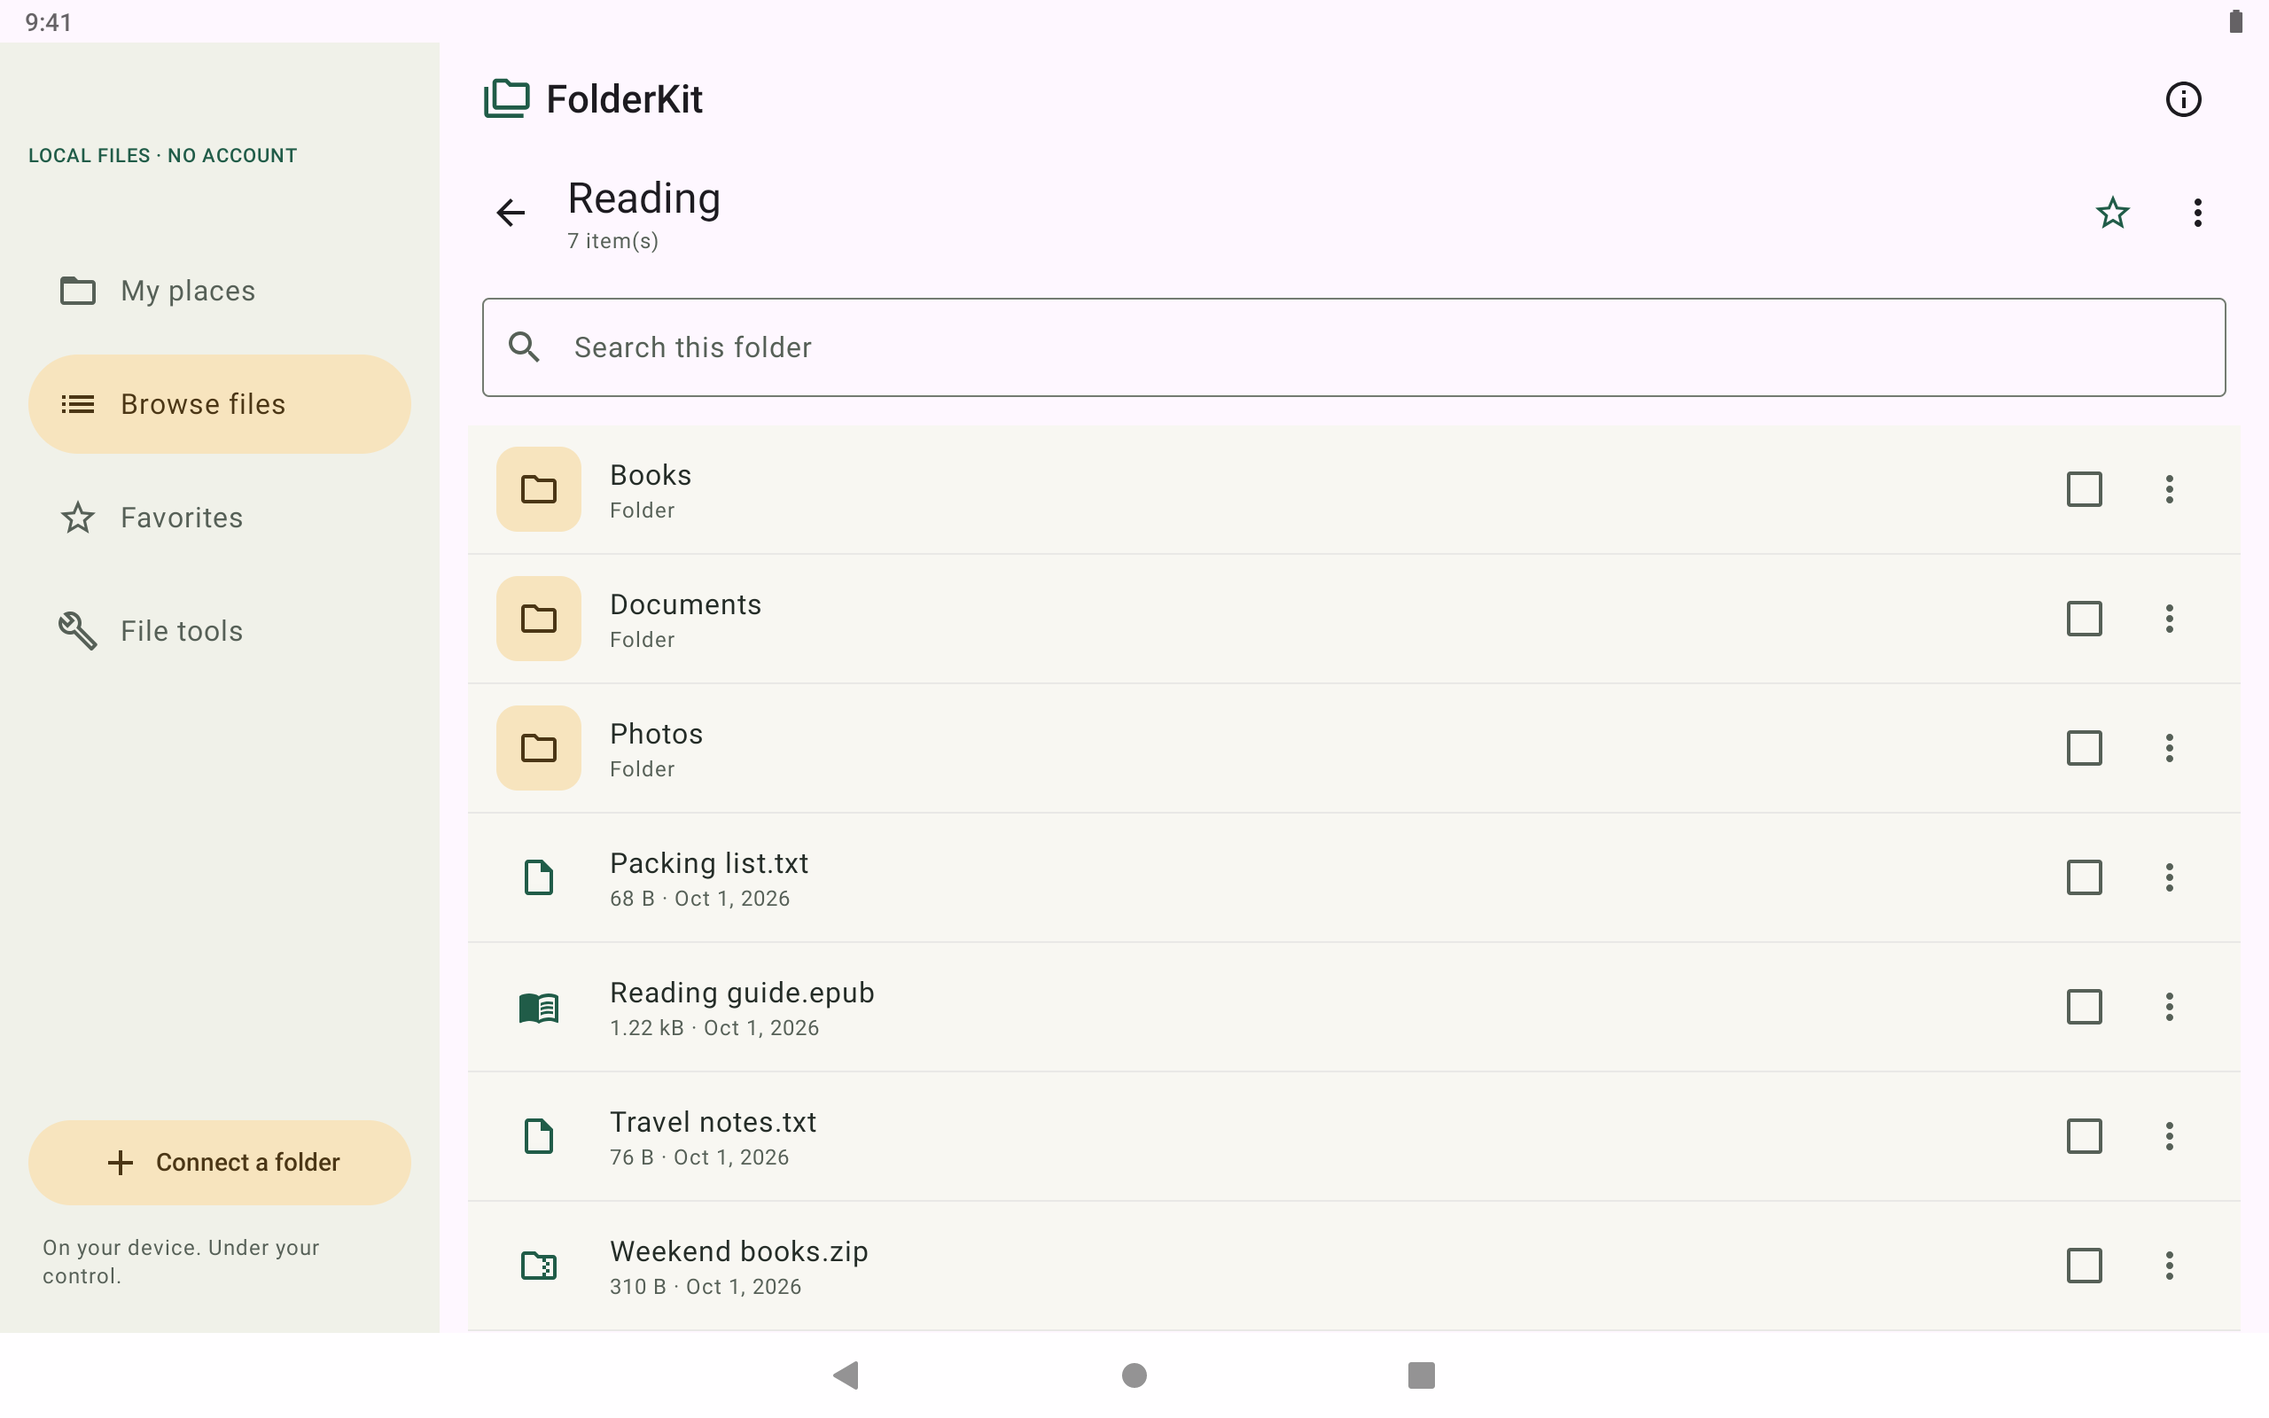
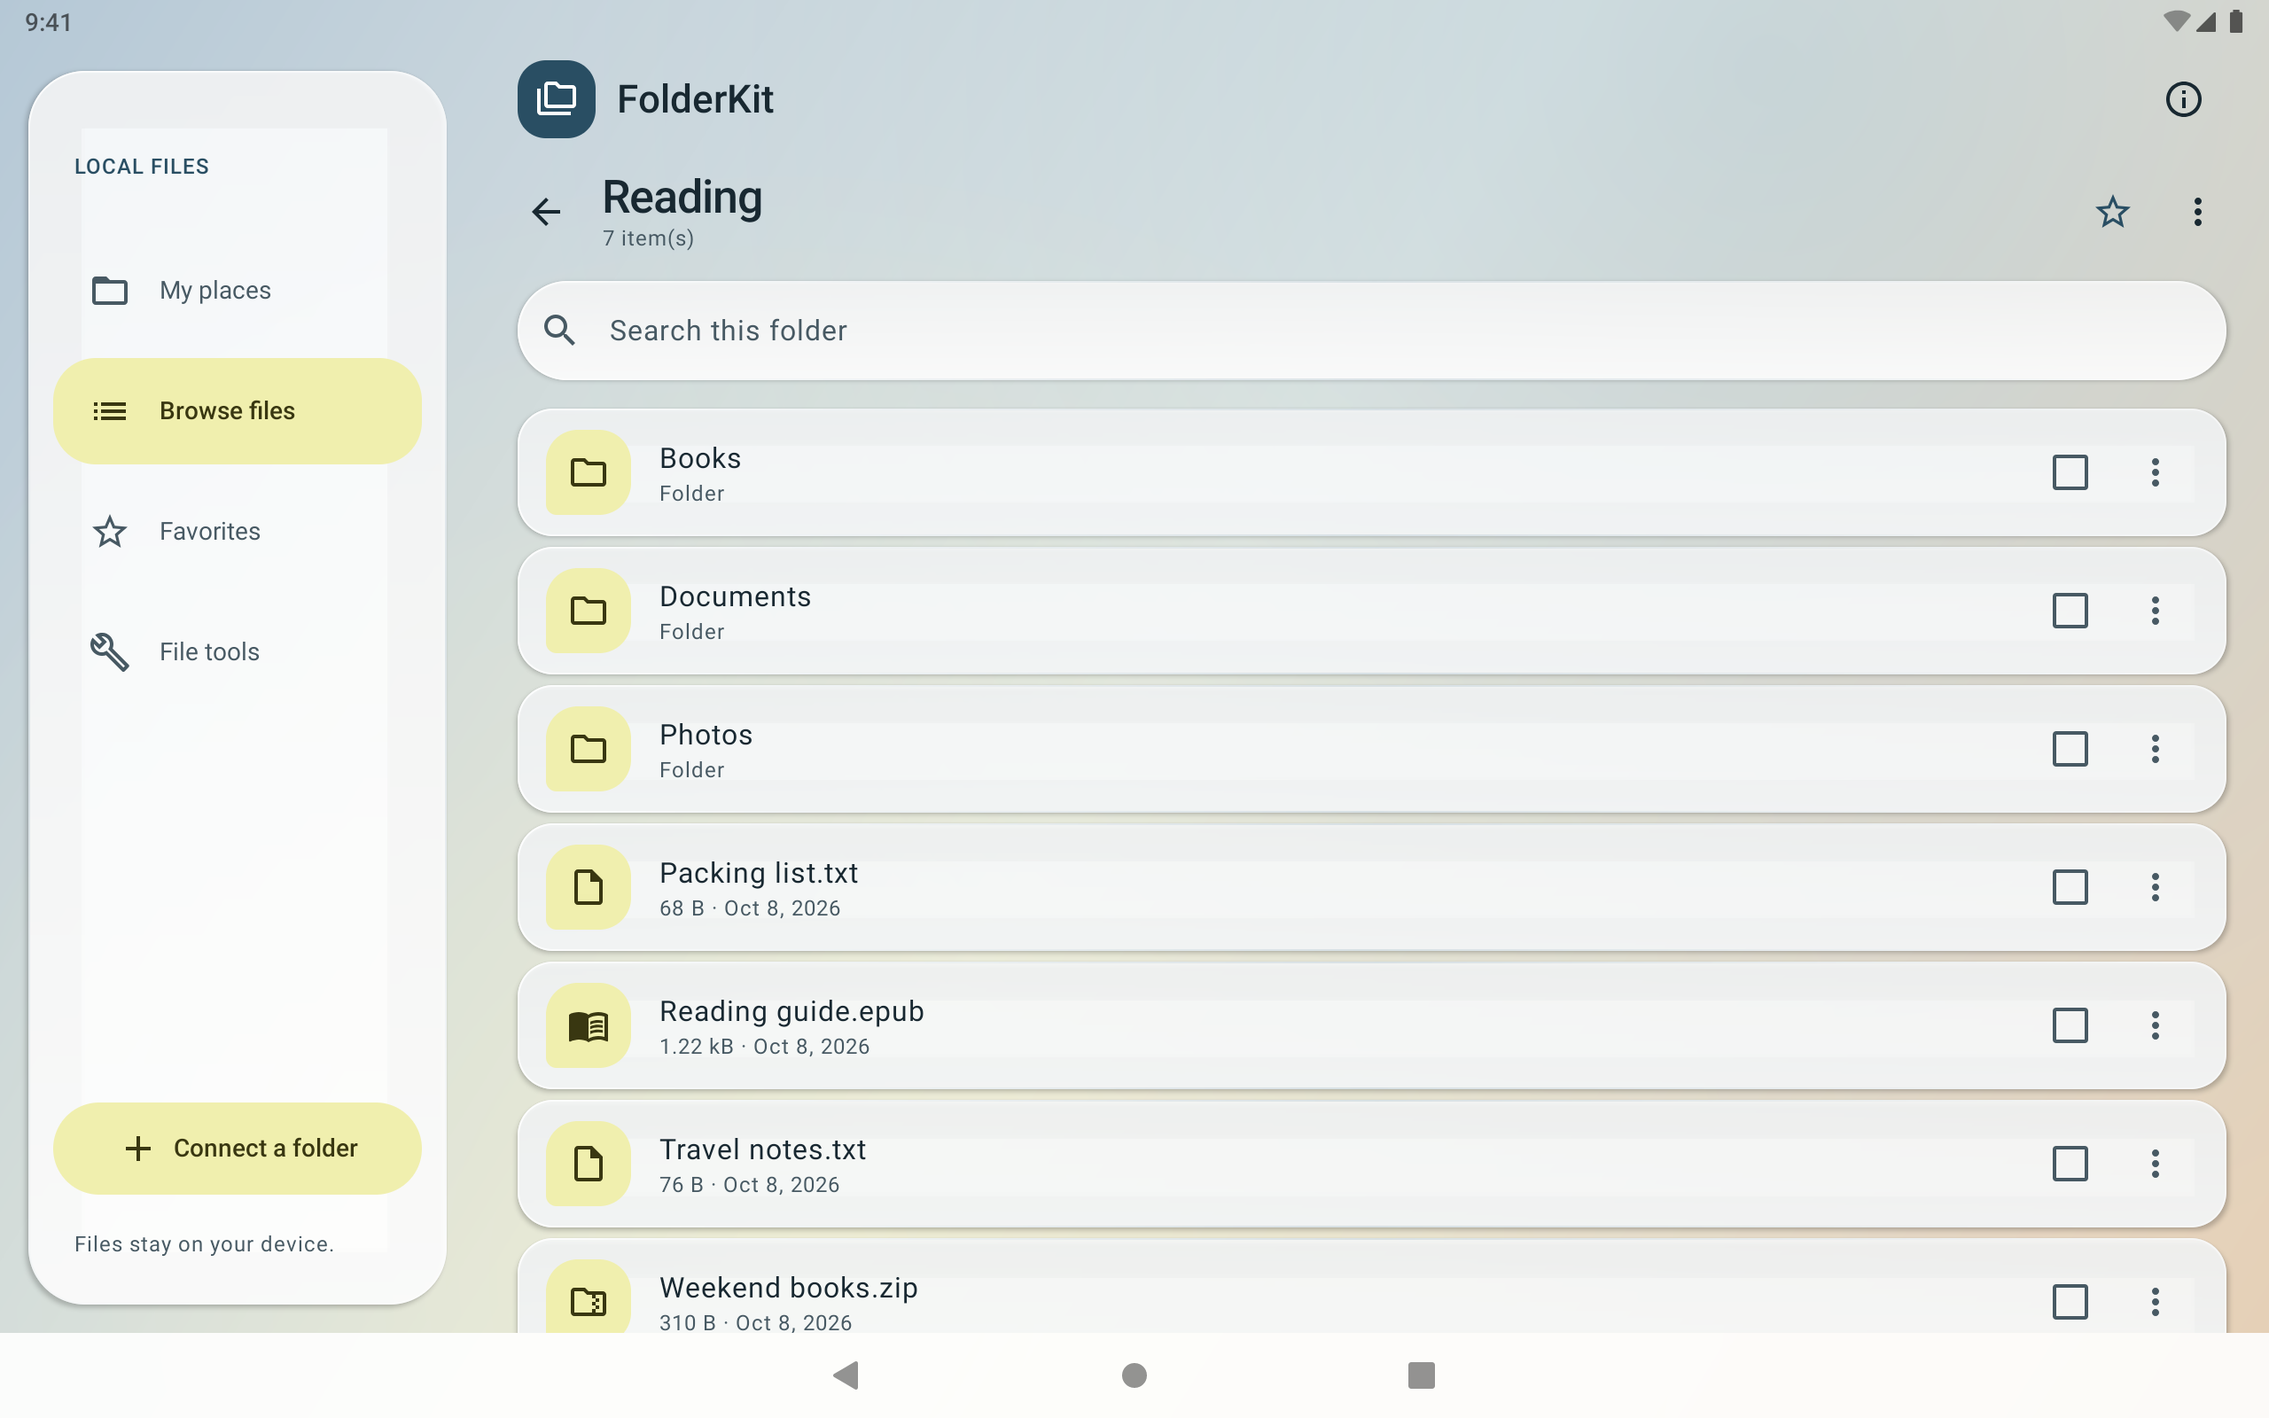
docs: refresh signed rc2 screenshots and UI verification evidence

diff --git a/docs/TESTING.md b/docs/TESTING.md
@@ -8,7 +8,7 @@
 
 The core suite exercises verified file/folder moves, nested and empty folder archives, descendant destination refusal, corrupt providers, source-delete failure, source mutation, cancellation rollback, existing-file collisions, Unicode/empty ZIP round trips, nested archive paths, traversal/absolute/drive/backslash paths, case collisions, expansion and entry limits, truncated ZIP footers, empty archives, SHA-256 vectors, bounded walking and hidden-file handling.
 
-Android JVM tests use Robolectric with API 28 and the real Activity/Compose UI to check first launch, navigation, tool preconditions and the About dialog. These do not replace a Fire storage-provider or launcher test.
+The 22 core tests and 3 Android JVM tests pass. UI tests use Robolectric with API 28 and the real Activity/Compose UI to check first launch, navigation, tool preconditions and the About dialog. A 360dp test scrolls the Places content and confirms the bottom navigation remains available. These do not replace a Fire storage-provider or launcher test.
 
 ## Local environment limitation
 
@@ -16,14 +16,16 @@ The installed Windows Android emulator has no working hardware-acceleration driv
 
 ## Emulator screenshot capture
 
-The [Tablet screenshots workflow](../.github/workflows/screenshots.yml) downloads an existing signed private release APK and captures its actual UI using ADB. The [successful capture run](https://github.com/guardyanz/kindlefiles-plus/actions/runs/36827704863) used AOSP API 28, x86_64, Nexus 10 profile, 2560×1600 landscape, and 320 dpi. [Store PNGs and provenance](../store-assets/screenshots/README.md) are committed separately from temporary UI dumps and sample documents under ignored `artifacts/`.
+The [Tablet screenshots workflow](../.github/workflows/screenshots.yml) downloads an existing signed private release APK and captures its actual UI using ADB. The [rc2 capture run](https://github.com/guardyanz/kindlefiles-plus/actions/runs/37708694314) uses AOSP API 28, x86_64, Nexus 10 profile, 2560x1600 landscape, and 320 dpi. A separate Nexus 7 job uses its native 800x1280 portrait display at 320 dpi (400x640dp). [Store PNGs and provenance](../store-assets/screenshots/README.md) are committed separately from temporary UI dumps and sample documents under ignored `artifacts/`.
 
-The capture journey launches the signed app, grants access to a disposable Downloads subfolder through the real system picker, browses folders, saves favorites, opens the ZIP actions menu, and scans an identical pair of documents. This confirms those UI paths on AOSP; it does not exercise transfers, archive extraction, USB/SD hardware, Fire OS providers, or Fire launchers.
+The capture journey launches the signed app, grants access to a disposable Downloads subfolder through the real system picker, browses folders, saves favorites, opens the ZIP actions menu, scans an identical pair of documents and selects a file. A native screen recording captures page and favorite interactions with animation scales enabled. Still captures disable animations. Additional captures check dark Places/browser screens, compact favorites and tools with 200% font scaling. See [UI verification evidence](../store-assets/verification/README.md).
+
+These journeys confirm UI paths on AOSP; they do not exercise transfers, archive extraction, USB/SD hardware, Fire OS providers, or Fire launchers. The [rc2 build checks](https://github.com/guardyanz/kindlefiles-plus/actions/runs/37701672858) passed core/UI tests, lint, debug and release builds before signing.
 
 To repeat against an uploaded private release:
 
 ```sh
-gh workflow run screenshots.yml -f release_tag=v0.9.0-rc1
+gh workflow run screenshots.yml -f release_tag=v0.9.0-rc2
 ```
 
 ## Device acceptance matrix (pending)

diff --git a/docs/APPSTORE.md b/docs/APPSTORE.md
@@ -39,8 +39,8 @@ Target audience: general utility; not designed for children. Complete the conten
 ## Assets
 
 - `store-assets/folderkit-114.png` and `store-assets/folderkit-512.png` are original transparent PNGs in Amazon's required dimensions. The source is `scripts/Export-StoreIcons.py`.
-- [Six screenshots](../store-assets/screenshots/README.md) are captured directly from the signed `0.9.0-rc1` APK on an AOSP Android API 28 tablet emulator. The unedited PNGs are 2560×1600, an [allowed tablet resolution](https://developer.amazon.com/docs/app-submission/appstore-details.html), and show Places, browsing, favorites, ZIP actions, tools, and duplicates with original sample documents. They show the actual app UI on Android; they are not captures of Fire OS or evidence of physical Fire hardware testing. Recapture if the submitted app UI changes.
-- Promotional image/video are optional and intentionally omitted.
+- [Seven screenshots](../store-assets/screenshots/README.md) are captured directly from the signed `0.9.0-rc2` APK on an AOSP Android API 28 tablet emulator. The unedited PNGs are 2560x1600, an [allowed tablet resolution](https://developer.amazon.com/docs/app-submission/appstore-details.html), and show Places, browsing, favorites, ZIP actions, tools, duplicates and file selection with original sample documents. They show the actual app UI on Android; they are not captures of Fire OS or evidence of physical Fire hardware testing. Recapture if the submitted app UI changes.
+- An emulator recording demonstrates navigation and favorite interactions. It is review material, not a promotional trailer. A promotional image remains optional and is omitted.
 
 ## Submission gate
 
@@ -50,4 +50,4 @@ Target audience: general utility; not designed for children. Complete the conten
 4. In the Amazon Developer Console, supply publisher identity, payment/banking/tax details for a paid app, content rating, privacy response, supported Fire tablets, the listing fields above, icons/screenshots, and the signed APK. Exclude Fire TV devices. Review Amazon's DRM choice and test the resulting paid install.
 5. Build the final binary from a reviewed commit, verify its SHA-256 and signature, then record the exact submitted version code and certificate SHA-256. Do not change the signing key for subsequent updates.
 
-The signed `0.9.0-rc1` APK is a private test candidate. After physical validation, advance `versionCode` and `versionName`, rerun checks, and sign the final build.
+The signed `0.9.0-rc2` APK is a private test candidate. After physical validation, advance `versionCode` and `versionName`, rerun checks, and sign the final build.

diff --git a/docs/DESIGN.md b/docs/DESIGN.md
@@ -15,11 +15,13 @@ Visual direction: blue-gray light fields, cream glass panels, soft yellow folder
 
 Glass uses high-opacity translucent fills, gradient light reflections, a specular border and 2dp elevation. The background is a cached static drawing. This works on API 28 without a backdrop-blur library, bitmap capture, shader refraction or continuous animation. Text remains sharp over the tinted surfaces. This is frosted glass styling; it does not claim to reproduce Apple's Liquid Glass rendering.
 
-Motion: MaterialExpressiveTheme with MotionScheme.expressive(), 180–220ms color/page transitions, spring press feedback and button shape changes, favorite emphasis, and an expanding selection toolbar. Animations affect drawing rather than list layout wherever possible. Android's animation scale controls the Compose runtime; custom effects also disable transforms when ValueAnimator reports disabled animations, including changes while the app is open. No idle animation loop is used.
+Motion: MaterialExpressiveTheme with MotionScheme.expressive(), color/page transitions lasting 180 to 220ms, spring press feedback and button shape changes, favorite emphasis, and an expanding selection toolbar. Animations affect drawing rather than list layout wherever possible. Android's animation scale controls the Compose runtime; custom effects also disable transforms when ValueAnimator reports disabled animations, including changes while the app is open. No idle animation loop is used.
 
 Interaction: tap opens an item, long press selects it, and a visible checkbox offers the same selection action. Overflow menus retain file operations and destructive confirmations. Touch targets remain at least 48dp. Compact destination labels can wrap for enlarged fonts, and scrolling content reserves space for the bottom bar.
 
 Dependency choice: the Expressive theme and motion APIs are in the Material 3 prerelease line. Material 3 1.5.0-alpha09 is pinned explicitly with stable Compose BOM 2025.11.01. Review upstream API changes and repeat API 28 UI checks before upgrading this dependency.
+
+Palette checks cover ten text/surface combinations, including secondary text over the least opaque glass fill and darkest backdrop endpoint. Calculated ratios range from 6.70:1 to 13.91:1. These checks cover the chosen solid colors and alpha composites; they are not a complete accessibility audit. Native controls retain their labels, roles and focus behavior.
 
 Screen decomposition:
 - Places: connect a folder or pick downloads; large visible buttons, scrollable persistent roots and favorites. Permission failures retain a reconnect action.

diff --git a/store-assets/screenshots/README.md b/store-assets/screenshots/README.md
@@ -1,6 +1,6 @@
 # FolderKit tablet screenshots
 
-Six unedited PNGs captured directly with ADB from the signed `0.9.0-rc1` APK. Device: AOSP Android emulator API 28, x86_64, Nexus 10 profile, 2560×1600 landscape, 320 dpi. These are Android emulator captures; no Fire OS device branding is added. All documents are original disposable samples, with no personal files.
+Seven unedited PNGs captured directly with ADB from the signed `0.9.0-rc2` APK. Device: AOSP Android emulator API 28, x86_64, Nexus 10 profile, 2560x1600 landscape, 320 dpi. These are Android emulator captures; no Fire OS device branding is added. All documents are original disposable samples, with no personal files.
 
 | File | Scene |
 | --- | --- |
@@ -10,7 +10,10 @@ Six unedited PNGs captured directly with ADB from the signed `0.9.0-rc1` APK. De
 | [04-archive-actions.png](04-archive-actions.png) | ZIP extraction and file actions menu |
 | [05-file-tools.png](05-file-tools.png) | Archive and duplicate tools |
 | [06-duplicates.png](06-duplicates.png) | SHA-256 duplicate scan results |
+| [07-selection.png](07-selection.png) | Selected file and transfer/archive actions |
 
-[capture.json](capture.json) records the APK SHA-256 and image dimensions. The [capture workflow run](https://github.com/guardyanz/kindlefiles-plus/actions/runs/36827704863) succeeded on 2026-10-01. The source journey is [Capture-Screenshots.py](../../scripts/Capture-Screenshots.py); rerun the manual [workflow](../../.github/workflows/screenshots.yml) whenever the app UI changes. Images are distributed with this project's Apache-2.0 release material.
+[capture.json](capture.json) records the APK SHA-256 and image dimensions. The [capture workflow run](https://github.com/guardyanz/kindlefiles-plus/actions/runs/37708694314) ran on 2026-10-08. The source journey is [Capture-Screenshots.py](../../scripts/Capture-Screenshots.py); rerun the manual [workflow](../../.github/workflows/screenshots.yml) whenever the app UI changes. Images are distributed with this project's Apache-2.0 release material.
+
+[Dark, compact and enlarged-text captures](../verification/README.md) are supplied as review evidence. The private [rc2 release](https://github.com/guardyanz/kindlefiles-plus/releases/tag/v0.9.0-rc2) includes the signed APK, screenshot ZIP and a native interaction recording.
 
 The dimensions match Amazon's [tablet screenshot specifications](https://developer.amazon.com/docs/app-submission/appstore-details.html). Store acceptance and physical Fire compatibility remain separate submission checks in [APPSTORE.md](../../docs/APPSTORE.md).

diff --git a/store-assets/verification/README.md b/store-assets/verification/README.md
@@ -1,0 +1,20 @@
+# Expressive UI verification
+
+These unedited ADB captures document the signed `0.9.0-rc2` candidate. They use disposable sample files on AOSP API 28 emulators. The [workflow run](https://github.com/guardyanz/kindlefiles-plus/actions/runs/37708694314) records both device jobs. APK hashes are recorded in [tablet capture.json](../screenshots/capture.json) and [compact-capture.json](compact-capture.json).
+
+| Capture | Check |
+| --- | --- |
+| [qa-dark-places.png](qa-dark-places.png) | Dark background, header, sidebar and glass hero |
+| [qa-dark-browser.png](qa-dark-browser.png) | Dark search field, headings and file rows |
+| [qa-compact-places.png](qa-compact-places.png) | Native 800x1280 portrait at 400x640dp |
+| [qa-compact-favorites.png](qa-compact-favorites.png) | Favorite rows and floating bottom navigation |
+| [qa-compact-large-text.png](qa-compact-large-text.png) | Favorites and navigation at 200% font size |
+| [qa-compact-tools.png](qa-compact-tools.png) | Scrollable tools and scan action at 200% font size |
+
+The tablet job uses a Nexus 10 profile at 2560x1600 and 320 dpi. The compact job uses a Nexus 7 profile at its native portrait resolution, also at 320 dpi. Both jobs operate the actual system folder picker and app controls using fresh UI Automator bounds.
+
+The private [rc2 release](https://github.com/guardyanz/kindlefiles-plus/releases/tag/v0.9.0-rc2) includes `folderkit-motion.mp4`, a native screen recording of navigation and favorite interactions with Android animation scales set to 1. Still screenshots use disabled animations. The custom UI effects also observe disabled system animations while the app is open.
+
+[contrast.json](contrast.json) records calculations for ten palette combinations, including alpha-composited glass fills. The minimum measured ratio is 6.70:1. These values do not establish complete accessibility conformance; TalkBack and actual Fire hardware checks remain in [TESTING.md](../../docs/TESTING.md).
+
+The reference image supplied for the redesign informed color, rounded surfaces and layered shapes. No reference photographs, logo or interface assets are packaged. These captures and original sample documents are distributed under the project's Apache-2.0 license.

diff --git a/README.md b/README.md
@@ -17,6 +17,8 @@ A local file manager for Fire tablets. Kotlin + Jetpack Compose, built independe
 - Configurable folder widget on launchers that support Android widgets.
 - Material 3 Expressive theme, tinted glass panels, floating compact navigation, press and selection feedback, and light/dark palettes. Motion follows Android's animation setting. Original launcher vector and Apache-licensed Material icons.
 
+The private [rc2 release](https://github.com/guardyanz/kindlefiles-plus/releases/tag/v0.9.0-rc2) supplies the signed APK, seven tablet screenshots and an interaction video. [UI verification captures](store-assets/verification/README.md) cover dark mode, compact portrait and 200% text.
+
 ## Build
 
 Requirements: JDK 17 or newer (tested with Android Studio JBR 21), Android SDK platform 36 and build tools 35, and an SDK path in `local.properties` or `ANDROID_HOME`.
